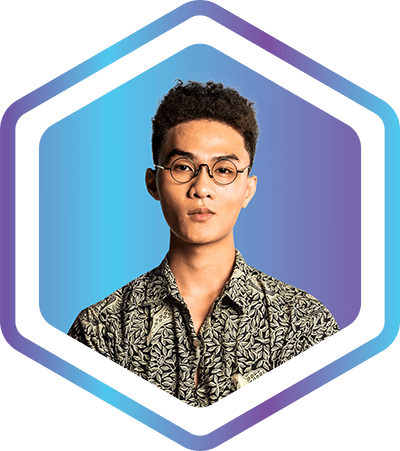
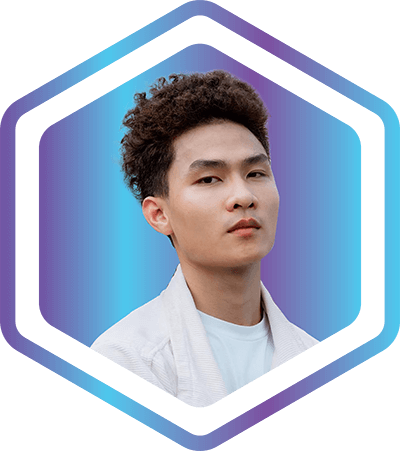
Up

diff --git a/index.html b/index.html
@@ -792,7 +792,7 @@
                   <div class="slider__item" data-bs-toggle="modal" data-bs-target="#ourteamModal">
                     <div class="slider__item--thumb">
                       <div class="dnfix__thumb -contain">
-                        <img src="images/team/dev-user-04.png" alt="">
+                        <img src="images/team2/Tam-le.png" alt="">
                       </div>
                     </div>
                     <div class="slider__item--meta">
@@ -1141,7 +1141,7 @@
                   <div class="slider__item" data-bs-toggle="modal" data-bs-target="#ourteamModal">
                     <div class="slider__item--thumb">
                       <div class="dnfix__thumb -contain">
-                        <img src="images/team/Thien-Cuong.png" alt="">
+                        <img src="images/team2/Thien-Cuong.png" alt="">
                       </div>
                     </div>
                     <div class="slider__item--meta">
@@ -1423,40 +1423,11 @@
                       </div>
                     </div>
                   </div>
+
                   <div class="slider__item" data-bs-toggle="modal" data-bs-target="#ourteamModal">
                     <div class="slider__item--thumb">
                       <div class="dnfix__thumb -contain">
-                        <img src="images/team2/cao-trong.png" alt="">
-                      </div>
-                    </div>
-                    <div class="slider__item--meta">
-                      <div class="slider__item--title">Cao Trong</div>
-                      <div class="slider__item--sub">DEVELOPER</div>
-                    </div>
-                    <div class="js-slider-content slider__item--content d-none">
-                      <h3 class="ourteamModal__title">Cao Trong</h3>
-                      <p class="ourteamModal__sub">DEVELOPER</p>
-                      <div class="ourteamModal__excerpt">
-                        <ul class="mb-3">
-                          <li>05-2013 - 09-2018: NAL Solutions - Developer</li>
-                          <li>10-2018 - 03-2020: FPT- Developer</li>
-                          <li>04-2020 - Now: Sphoton - Developer"</li>
-                        </ul>
-                        <p class="mb-2">Education</p>
-                        <ul class="mb-3">
-                          <li>Ha noi university</li>
-                        </ul>
-                        <p class="mb-2">ACHIEVEMENT</p>
-                        <ul>
-                          <li>Outstanding Employee of the  2017 NAL Solutions </li>
-                        </ul>
-                      </div>
-                    </div>
-                  </div>
-                  <div class="slider__item" data-bs-toggle="modal" data-bs-target="#ourteamModal">
-                    <div class="slider__item--thumb">
-                      <div class="dnfix__thumb -contain">
-                        <img src="images/team2/hung-vu.png" alt="">
+                        <img src="images/team2/Hung-Vu.png" alt="">
                       </div>
                     </div>
                     <div class="slider__item--meta">
@@ -1482,7 +1453,7 @@
                   <div class="slider__item" data-bs-toggle="modal" data-bs-target="#ourteamModal">
                     <div class="slider__item--thumb">
                       <div class="dnfix__thumb -contain">
-                        <img src="images/team/dev-user-11.png" alt="">
+                        <img src="images/team2/Duong-Cao.png" alt="">
                       </div>
                     </div>
                     <div class="slider__item--meta">
@@ -1531,62 +1502,6 @@
                       </div>
                     </div>
                   </div>
-                  <div class="slider__item" data-bs-toggle="modal" data-bs-target="#ourteamModal">
-                    <div class="slider__item--thumb">
-                      <div class="dnfix__thumb -contain">
-                        <img src="images/team2/nhan-nguyen.png" alt="">
-                      </div>
-                    </div>
-                    <div class="slider__item--meta">
-                      <div class="slider__item--title">Nhan Nguyen</div>
-                      <div class="slider__item--sub">DEVELOPER</div>
-                    </div>
-                    <div class="js-slider-content slider__item--content d-none">
-                      <h3 class="ourteamModal__title">Nhan Nguyen</h3>
-                      <p class="ourteamModal__sub">DEVELOPER</p>
-                      <div class="ourteamModal__excerpt">
-                        <ul class="mb-3">
-                          <li>05-2015 - 02-2020: Neolab - Developer </li>
-                          <li>03-2020 - Now: Sphoton - Developer</li>
-                        </ul>
-                        <p class="mb-2">Education</p>
-                        <ul class="mb-3">
-                          <li>Codegym</li>
-                        </ul>
-                        <p class="mb-2">ACHIEVEMENT</p>
-                        <ul>
-                          <li>Teamlead project reminding to take the most used medicine of Japanese people in Neolab</li>
-                        </ul>
-                      </div>
-                    </div>
-                  </div>
-                  <div class="slider__item" data-bs-toggle="modal" data-bs-target="#ourteamModal">
-                    <div class="slider__item--thumb">
-                      <div class="dnfix__thumb -contain">
-                        <img src="images/team2/big-trash.png" alt="">
-                      </div>
-                    </div>
-                    <div class="slider__item--meta">
-                      <div class="slider__item--title">BIG TRASH</div>
-                      <div class="slider__item--sub">Designer</div>
-                    </div>
-                    <div class="js-slider-content slider__item--content d-none">
-                      <h3 class="ourteamModal__title">BIG TRASH</h3>
-                      <p class="ourteamModal__sub">Designer</p>
-                      <div class="ourteamModal__excerpt">
-                        <ul class="mb-3">
-                          <li>12-2014 - 01-2016: THCMedia - Designer</li>
-                          <li>02-2016- 04-2020: VACS - Designer </li>
-                          <li>05-2020 - Now: Sphoton - Designer</li>
-                        </ul>
-                        <p class="mb-2">Education</p>
-                        <ul class="mb-3">
-                          <li>University of Architecture</li>
-                        </ul>
-                      </div>
-                    </div>
-                  </div>
-
                   <div class="slider__item" data-bs-toggle="modal" data-bs-target="#ourteamModal">
                     <div class="slider__item--thumb">
                       <div class="dnfix__thumb -contain">
